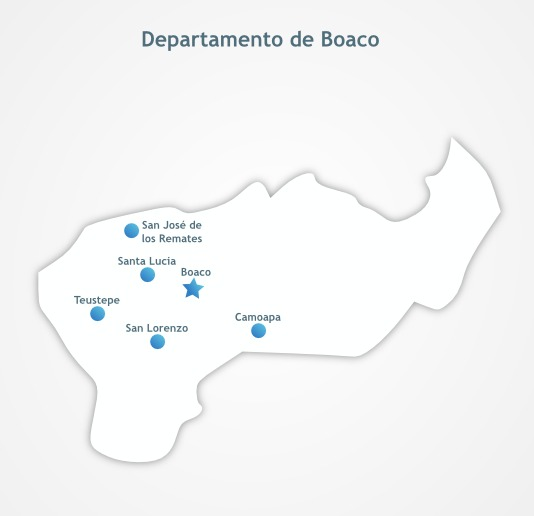
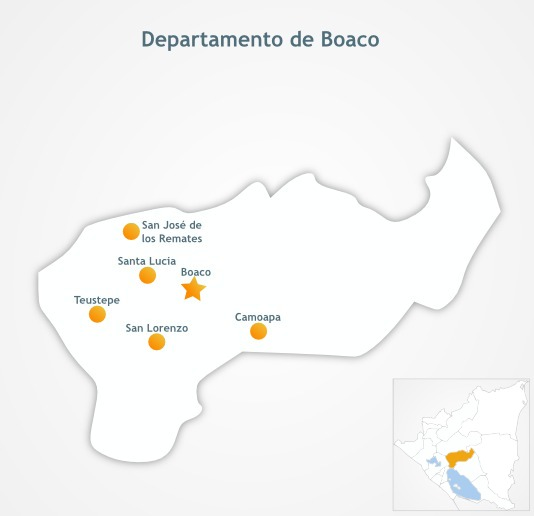
Al fin termine los mapas magicos n_n

diff --git a/aguasan/templates/mapeo/mapa.html b/aguasan/templates/mapeo/mapa.html
@@ -26,10 +26,10 @@
                                                         <area href="/mapeo/mapa/departamento/40" title="Matagalpa" shape="poly" coords="172.87,286.59, 178.05,286.27, 186.59,290.47, 192.51,294.31, 206.30,297.51, 211.10,294.57, 214.42,290.04, 217,287.63, 238.47,282.81, 241.83,283.31, 244.21,283.75, 251,281.74, 252.55,280.53, 263.08,277.23, 264.37,278.57, 266.64,277.15, 271.30,275.18, 276.23,276.50, 281.37,279.44, 286.61,281.59, 290.99,284.98, 287.35,275.85, 284.39,266.71, 283.94,263.39, 288.36,263.39, 293.18,263.48, 300.91,257.34, 324.11,257.63, 338.87,250.25, 344.24,247.98, 345.12,246.13, 345.25,238.47, 342.98,232.94, 340.91,228.26, 343.34,218.76, 342.31,216.89, 333.56,210.45, 326.30,206.19, 323.92,206.01, 315.37,206.33, 304.60,206.74, 300.32,209.72, 295.22,217.96, 294.47,222.16, 291.46,228.38, 288.07,230.02, 282.57,225.92, 276.33,223.72, 272.43,222.84, 254.85,206.71, 250.86,209.78, 248.02,210.99, 243.39,213.16, 242.79,217.83, 232.33,221.71, 230.84,224.11, 229.52,226.43, 222.10,231.64, 215.76,240, 210.02,247.49, 191.15,241.25, 181.83,249.34, 176.99,252.38, 171.19,255.64, 170.58,270.08, 171.22,283.70 "></area>
                                                         <area href="/mapeo/mapa/departamento/25" title="Esteli" shape="poly"coords="166.53,260.44, 167.41,259.02, 171.08,252.84, 175.72,249.43, 183.81,243.36, 187.80,239.32, 184.36,237.17, 174.16,231.04, 170.40,226.50, 172.11,220.70, 167.94,214.78, 165.43,212.01, 168.10,207.88, 170.01,202.62, 171.71,201.67, 176.79,197.97, 162.86,196.87, 146.27,195.60, 141.66,195.10, 134.77,200.63, 133.83,204.18, 131.32,211.98, 128.64,215.92, 124.98,219.57, 118.63,225.67, 116.99,229.35, 117.29,231.54, 120.35,230.41, 123.35,229.42, 126.60,234.22, 129.72,231.76, 132.58,230.15, 139.34,229.89, 147.59,230.48, 150.23,236.49, 157.03,242.42, 153.85,249.86, 154.28,254.25, 155.73,258.51, 158.76,260.04, 163.53,260.58"></area>
                                                         <area href="/mapeo/mapa/departamento/20" title="Madriz" shape="poly" coords="122.63,217.85, 125.14,217.11, 128.09,213.29, 130.75,208.11, 132.26,199.85, 137.20,195.17, 141.68,192.40, 159,195.18, 167.37,193.43, 173.90,194.71, 179.43,195.31, 181,193.64, 186.14,192.52, 189.25,189.20, 190.55,185.05, 180.08,177.68, 175.14,184.11, 169.41,180.54, 162.93,178.43, 153.28,176.56, 145.11,175.70, 142.46,176.55, 139.41,178.39, 135.20,181.25, 134.60,177.34, 129.53,175.71, 128.47,171.96, 121.85,169.60, 119.57,170.13, 119.21,171.25, 117.65,172.97, 115.37,174.89, 118.27,178.75, 118.17,181.62, 118.14,184.89, 119.24,187.73, 119.89,190.12, 119.57,193.56, 118.87,198.82, 121.42,203.65, 124.27,207.05, 122.41,209.72, 120.63,213.36, 121.30,215.58"></area>
-                                                        <area href="#" title="Nueva Segovia" shape="poly" coords="211.34,188.39, 212.58,186.60, 212.92,185.11, 207.17,180.23, 207.74,176.32, 208.04,172.05, 206.06,167.03, 207.94,164.70, 210.17,163.01, 212,158.31, 216.96,152.79, 225.61,146.88, 217.78,137.85, 211.79,140.49, 203.99,132.05, 199.26,129.23, 200.56,119.54, 192.94,120.49, 189.19,123.46, 188.71,127.79, 189.15,130.54, 182.45,130.96, 179.95,134.11, 178.41,136.28, 174.37,141.20, 170.16,147.13, 166.30,153.01, 163.18,155.36, 159.65,155.64, 152.99,154.57, 150.34,153.98, 147.71,154.63, 143.49,153.07, 138.08,151.94, 131.34,152.81, 123.77,152.12, 119.70,152.28, 117.82,154.46, 116.50,160.17, 116.08,164.72, 120.28,165.87, 127.10,167.71, 129.79,169.13, 131.18,170.90, 132.87,172.90, 134.08,173.39, 136.42,174.39, 138.26,176.25, 141.76,174.03, 148.93,173.23, 156.31,174.84, 171.87,178.25, 174.43,179.98, 177.70,175.36, 179.78,174.98, 191.82,181.88, 193.61,184.42, 197.10,185.34, 200.32,183.20, 202.95,183.85"></area>
+                                                        <area href="/mapeo/mapa/departamento/5" title="Nueva Segovia" shape="poly" coords="211.34,188.39, 212.58,186.60, 212.92,185.11, 207.17,180.23, 207.74,176.32, 208.04,172.05, 206.06,167.03, 207.94,164.70, 210.17,163.01, 212,158.31, 216.96,152.79, 225.61,146.88, 217.78,137.85, 211.79,140.49, 203.99,132.05, 199.26,129.23, 200.56,119.54, 192.94,120.49, 189.19,123.46, 188.71,127.79, 189.15,130.54, 182.45,130.96, 179.95,134.11, 178.41,136.28, 174.37,141.20, 170.16,147.13, 166.30,153.01, 163.18,155.36, 159.65,155.64, 152.99,154.57, 150.34,153.98, 147.71,154.63, 143.49,153.07, 138.08,151.94, 131.34,152.81, 123.77,152.12, 119.70,152.28, 117.82,154.46, 116.50,160.17, 116.08,164.72, 120.28,165.87, 127.10,167.71, 129.79,169.13, 131.18,170.90, 132.87,172.90, 134.08,173.39, 136.42,174.39, 138.26,176.25, 141.76,174.03, 148.93,173.23, 156.31,174.84, 171.87,178.25, 174.43,179.98, 177.70,175.36, 179.78,174.98, 191.82,181.88, 193.61,184.42, 197.10,185.34, 200.32,183.20, 202.95,183.85"></area>
                                                         <area href="/mapeo/mapa/departamento/10" title="Jinotega" shape="poly" coords="208.42,244.75, 214.15,236.77, 219.93,229.12, 225.47,226.62, 227.98,222.03, 230.51,219.02, 236.13,217.26, 239.86,214.61, 240.13,210.77, 247.51,208.37, 252.40,204.87, 254.43,200.48, 257.84,195.44, 262.75,191.63, 267.70,188.42, 267.70,171.05, 274.24,163.39, 284.34,164.58, 289.33,156.76, 297.25,152.74, 305.33,156.45, 308.32,159.20, 317.70,143.75, 329.40,125.88, 328.43,116.88, 330.44,100.48, 333.85,85.12, 330.83,82.83, 325.52,86.55, 319.92,80.78, 320.41,76.53, 316.12,75.53, 318.42,68.69, 312.70,66.25, 314.89,57.97, 313.30,54.39, 308.39,64.98, 305.21,62.04, 299.41,59.25, 299.82,63.70, 300.65,67.47, 297.27,71, 295.16,75.79, 295.24,77.92, 293.79,80.52, 291.96,82.43, 296.86,88.39, 299.48,92.69, 291.78,95.79, 276.36,98.88, 271.78,111.02, 258.33,121.75, 245.32,125.82, 229.87,131.45, 230.11,136.60, 231.13,141.17, 234.84,144.76, 232.02,146.16, 222.83,151.29, 216.25,156.43, 212.72,161.90, 210.32,165.91, 209.83,170.14, 210.33,175.95, 211.06,179.08, 216.99,183.12, 213.42,192.20, 199.65,186.87, 195.95,187.68, 192.87,188.43, 189.56,192.93, 184.17,194.98, 180.07,199.23, 177.74,202.47, 174.45,204.29, 170.52,212.65, 175.57,218.91, 174.05,226.41, 176.39,228.83"></area>
-                                                        <area href="#" title="Región Atlántico Norte" shape="poly" coords="256.64,203.39,274.19,220.07,288.27,226.85,291.56,223.46,292.03,219.20,293.20,214.89,295.95,211.24,299.07,206.96,304.74,204.25,310.25,203.17,316.06,204.25,322.49,204.45,326.91,202.72,347.44,217.7,381.83,214.24,403.40,211.93,414.92,209.86,419.48,219.10,442.45,213.91,450.22,214.49,455.13,215.87,458.42,215.50,458.74,218.64,459.41,221.30,459.67,225.72,459.64,228.48,483.98,240.58,476.26,215.20,478.38,204.48,484.25,179.94,486.60,161.56,487.63,147.94,492.74,137.49,495.97,126.14,506.60,114.39,514.13,103.32,505.37,94.62,504.84,84.11,512.94,85.26,514.31,89.22,516,94.31,518.44,96.60,522.27,86.25,516.73,69.29,511.84,53.10,511.06,44.11,509.82,31.93,508.79,33.11,508.06,36.07,506.63,45.57,494.96,33.55,498.28,26.94,503.81,18.90,508.19,18.18,509.14,20.86,509.80,24.05,510.89,26.13,512.27,22.44,515.39,18.11,519.47,14.83,523.11,10.92,521.10,9.84,516.23,12.44,513.33,15.07,510.17,11.41,506.40,8.53,499.40,7.44,496.46,7.13,492.38,15.65,488.30,10.56,476.43,24.60,473.63,25.26,470.90,25.74,468.70,27.64,466.70,29.45,464.55,29.62,462.67,29.71,457.64,32.43,451.03,36.02,444.76,36.97,440.69,37.62,435.23,39.47,428.18,41.49,420.71,36.40,419.59,38.40,418.36,40.97,416.47,43.40,413.77,46.24,408.87,43.75,402.25,41.26,401.27,41.88,403.36,48.42,396.67,52.59,390.06,45.22,376.56,56.97,370.20,54.18,355.70,46.82,352.32,48.33,350.13,47.34,346.75,44.11,343.22,39.59,341.23,35.58,340.40,31.39,330.18,31.06,327.44,38.16,322.39,41.39,316.34,44.90,313.42,47.92,315.96,52.70,318.06,56.91,317.27,62.86,317.34,65.05,321.80,67.63,320.89,71.70,321.41,73.39,324.26,75.47,324.74,76.45,323.97,77.53,323.32,80.06,324.49,81.97,326.13,82.71,330.08,80.42,337.88,83.53,335.70,91.69,333.48,100.78,331.91,109.23,331.49,118.09,332.32,122.89,334.25,125.27,329.69,131.32,321.22,143.73,313.26,157.56,309.37,164.76,304.40,159.59,297.61,155.54,292.45,157.35,288.54,161.64,286.27,165.66,276.96,166.92,272.41,170.44,271.07,173.67,270.56,190.23,260.61,197.15,258.32,200.21 "></area>
-                                                        <area href="#" title="Región Atlántico Sur" shape="poly" coords="452.80,471.15,451.28,465.41,448.25,455.27,446.99,441.28,448.01,433.01,452.84,428.36,458.76,422.10,459.67,417.43,461.18,412.82,465.65,409.61,470.51,407.25,473.45,406.97,471.53,396.61,469.18,389.05,466.25,378.80,462.46,377.68,461.99,386.22,456.75,384.97,452.49,382.50,449.15,378.86,448.63,375.50,454.16,370.86,458.02,368.35,457.61,362.96,459.81,352.94,461.56,349.82,465.16,353.59,468.75,357.62,469.98,356.79,469.70,354.63,468.06,351.97,467.55,345.37,469.75,332.35,473.61,322.11,476.69,318.39,481.95,316.11,487.35,315.24,490.12,311.27,491.99,307.58,484.15,300.26,485.22,245.22,470.02,237.50,456.27,230.42,455.84,219.39,453.03,218.39,450.50,217.25,448.03,216.35,442.37,216.43,434.59,217.31,418.07,221.51,416.29,220.63,415.40,217.30,414.07,213.02,408.01,213,392.93,215.23,375.92,217.31,348.78,220.95,346.46,222.36,344.36,226.17,344.15,229.34,347.75,234.59,348.78,236.84,348.86,238.73,348.35,243.16,346.71,250.24,338.43,253.66,332.51,256.05,328.74,258.42,326.54,260.55,301.63,259.30,297.51,263.19,293.09,266.66,290.55,266.61,288.18,266.44,287.70,267.64,289.43,273.27,293.05,281.47,294.92,287.41,298.32,284.03,296.74,281.67,297.42,278.37,299.90,276.72,301.42,276.17,302.83,274.73,302.92,270.36,303.02,267.37,305.86,267.42,312.28,271.11,317.83,276.53,318.33,279.29,319.73,283.32,325.62,290.73,331.74,299.36,333.27,303.31,335.61,305,338.32,306.09,337.04,308.30,335.70,312.45,335.63,315.76,338.93,321.02,341.94,325.27,341.21,328.36,340.69,332.07,341.19,336.48,342.86,341.97,345.33,346.34,349.13,353.75,353.68,362.61,361.06,366.92,371.27,369.09,362.72,376.83,370.88,389.16,371.74,391.56,371.98,393.55,372.25,398.06,373.42,400.54,374.84,406.27,374.51,407.97,373.42,409.27,372.29,411.07,372.77,419.40,373.89,423.27,380.08,429.80,386.16,434.63,392.15,438.53,393.31,439.82,395.77,444.73,399.06,447.42,405.28,447.65,408.22,449.29,410.64,453.02,411.24,454.63,411.32,456.52,412.27,458.89,416.27,462.33,422.66,463.34,428.96,465.30,435.37,467.96,440.45,466.19,442.87,465.80,444.84,466.77,446.17,468.86,448.02,472.52,450.42,472.27 "></area>
+                                                        <area href="/mapeo/mapa/departamento/91" title="Región Atlántico Norte" shape="poly" coords="256.64,203.39,274.19,220.07,288.27,226.85,291.56,223.46,292.03,219.20,293.20,214.89,295.95,211.24,299.07,206.96,304.74,204.25,310.25,203.17,316.06,204.25,322.49,204.45,326.91,202.72,347.44,217.7,381.83,214.24,403.40,211.93,414.92,209.86,419.48,219.10,442.45,213.91,450.22,214.49,455.13,215.87,458.42,215.50,458.74,218.64,459.41,221.30,459.67,225.72,459.64,228.48,483.98,240.58,476.26,215.20,478.38,204.48,484.25,179.94,486.60,161.56,487.63,147.94,492.74,137.49,495.97,126.14,506.60,114.39,514.13,103.32,505.37,94.62,504.84,84.11,512.94,85.26,514.31,89.22,516,94.31,518.44,96.60,522.27,86.25,516.73,69.29,511.84,53.10,511.06,44.11,509.82,31.93,508.79,33.11,508.06,36.07,506.63,45.57,494.96,33.55,498.28,26.94,503.81,18.90,508.19,18.18,509.14,20.86,509.80,24.05,510.89,26.13,512.27,22.44,515.39,18.11,519.47,14.83,523.11,10.92,521.10,9.84,516.23,12.44,513.33,15.07,510.17,11.41,506.40,8.53,499.40,7.44,496.46,7.13,492.38,15.65,488.30,10.56,476.43,24.60,473.63,25.26,470.90,25.74,468.70,27.64,466.70,29.45,464.55,29.62,462.67,29.71,457.64,32.43,451.03,36.02,444.76,36.97,440.69,37.62,435.23,39.47,428.18,41.49,420.71,36.40,419.59,38.40,418.36,40.97,416.47,43.40,413.77,46.24,408.87,43.75,402.25,41.26,401.27,41.88,403.36,48.42,396.67,52.59,390.06,45.22,376.56,56.97,370.20,54.18,355.70,46.82,352.32,48.33,350.13,47.34,346.75,44.11,343.22,39.59,341.23,35.58,340.40,31.39,330.18,31.06,327.44,38.16,322.39,41.39,316.34,44.90,313.42,47.92,315.96,52.70,318.06,56.91,317.27,62.86,317.34,65.05,321.80,67.63,320.89,71.70,321.41,73.39,324.26,75.47,324.74,76.45,323.97,77.53,323.32,80.06,324.49,81.97,326.13,82.71,330.08,80.42,337.88,83.53,335.70,91.69,333.48,100.78,331.91,109.23,331.49,118.09,332.32,122.89,334.25,125.27,329.69,131.32,321.22,143.73,313.26,157.56,309.37,164.76,304.40,159.59,297.61,155.54,292.45,157.35,288.54,161.64,286.27,165.66,276.96,166.92,272.41,170.44,271.07,173.67,270.56,190.23,260.61,197.15,258.32,200.21 "></area>
+                                                        <area href="/mapeo/mapa/departamento/93" title="Región Atlántico Sur" shape="poly" coords="452.80,471.15,451.28,465.41,448.25,455.27,446.99,441.28,448.01,433.01,452.84,428.36,458.76,422.10,459.67,417.43,461.18,412.82,465.65,409.61,470.51,407.25,473.45,406.97,471.53,396.61,469.18,389.05,466.25,378.80,462.46,377.68,461.99,386.22,456.75,384.97,452.49,382.50,449.15,378.86,448.63,375.50,454.16,370.86,458.02,368.35,457.61,362.96,459.81,352.94,461.56,349.82,465.16,353.59,468.75,357.62,469.98,356.79,469.70,354.63,468.06,351.97,467.55,345.37,469.75,332.35,473.61,322.11,476.69,318.39,481.95,316.11,487.35,315.24,490.12,311.27,491.99,307.58,484.15,300.26,485.22,245.22,470.02,237.50,456.27,230.42,455.84,219.39,453.03,218.39,450.50,217.25,448.03,216.35,442.37,216.43,434.59,217.31,418.07,221.51,416.29,220.63,415.40,217.30,414.07,213.02,408.01,213,392.93,215.23,375.92,217.31,348.78,220.95,346.46,222.36,344.36,226.17,344.15,229.34,347.75,234.59,348.78,236.84,348.86,238.73,348.35,243.16,346.71,250.24,338.43,253.66,332.51,256.05,328.74,258.42,326.54,260.55,301.63,259.30,297.51,263.19,293.09,266.66,290.55,266.61,288.18,266.44,287.70,267.64,289.43,273.27,293.05,281.47,294.92,287.41,298.32,284.03,296.74,281.67,297.42,278.37,299.90,276.72,301.42,276.17,302.83,274.73,302.92,270.36,303.02,267.37,305.86,267.42,312.28,271.11,317.83,276.53,318.33,279.29,319.73,283.32,325.62,290.73,331.74,299.36,333.27,303.31,335.61,305,338.32,306.09,337.04,308.30,335.70,312.45,335.63,315.76,338.93,321.02,341.94,325.27,341.21,328.36,340.69,332.07,341.19,336.48,342.86,341.97,345.33,346.34,349.13,353.75,353.68,362.61,361.06,366.92,371.27,369.09,362.72,376.83,370.88,389.16,371.74,391.56,371.98,393.55,372.25,398.06,373.42,400.54,374.84,406.27,374.51,407.97,373.42,409.27,372.29,411.07,372.77,419.40,373.89,423.27,380.08,429.80,386.16,434.63,392.15,438.53,393.31,439.82,395.77,444.73,399.06,447.42,405.28,447.65,408.22,449.29,410.64,453.02,411.24,454.63,411.32,456.52,412.27,458.89,416.27,462.33,422.66,463.34,428.96,465.30,435.37,467.96,440.45,466.19,442.87,465.80,444.84,466.77,446.17,468.86,448.02,472.52,450.42,472.27 "></area>
 
                             </map>
                    </div>

diff --git a/aguasan/templates/mapeo/mapa_departamento.html b/aguasan/templates/mapeo/mapa_departamento.html
@@ -189,5 +189,66 @@
                                                      
                             </map>
                             {%endifequal%}
+                            {%ifequal departamento.id 20%}
+                            <img src="{{MEDIA_URL}}imagen/madriz.jpg" class="mapa" usemap="#madriz" width="534" height="516" border="0">
+                            <map name="madriz">
+                                                        <area href="/proyectos/municipio/2005" title="Somoto" shape="poly" coords="210.47,240.67, 216.98,244.86, 216.35,237.14, 222.35,232.24, 214.81,230.46, 212.01,223.24, 207.98,229.86, 200.25,230.30, 205.30,236.17, 203.33,243.66, 210.47,240.67"></area>
+                                                        <area href="/proyectos/municipio/2030" title="Yalaguina" shape="circle" coords="275.97,221.69,7.25"></area>
+                                                        <area href="/proyectos/municipio/2010" title="Totogalpa" shape="circle" coords="306.55,191.46,7.25"></area>
+                                                        <area href="/proyectos/municipio/2015" title="Telpaneca" shape="circle" coords="348.98,220.45,7.25"></area>
+                                                        <area href="/proyectos/municipio/2025" title="Palacaguina" shape="circle" coords="321.40,260.93,7.25"></area>
+                                                        <area href="/proyectos/municipio/2020" title="San Juan del Rio Coco" shape="circle" coords="451.52,209.68,7.25"></area>
+                                                        <area href="/proyectos/municipio/2035" title="San Lucas" shape="circle" coords="159.52,290.18,7.25"></area>
+                                                        <area href="/proyectos/municipio/2040" title="Las Sabanas" shape="circle" coords="143.02,340.43,7.25"></area>
+                                                        <area href="/proyectos/municipio/2045" title="Cusmapa" shape="circle" coords="122.77,381.93,7.25"></area>
+                            </map>
+                            {%endifequal%}
+                            {%ifequal departamento.id 5%}
+                            <img src="{{MEDIA_URL}}imagen/nuevasegovia.jpg" class="mapa" usemap="#nuevasegovia" width="534" height="516" border="0">
+                            <map name="nuevasegovia">
+                                                        <area href="/proyectos/municipio/545" title="Ocotal" shape="poly" coords="193.50,287.68, 200.01,291.87, 199.38,284.15, 205.38,279.25, 197.84,277.47, 195.04,270.25, 191.01,276.87, 183.28,277.31, 188.33,283.18, 186.36,290.67"></area>
+                                                        <area href="/proyectos/municipio/540" title="Santa Maria" shape="circle" coords="67.55,228.91,7.25"></area>
+                                                        <area href="/proyectos/municipio/535" title="Macuelizo" shape="circle" coords="128.54,272.04,7.25"></area>
+                                                        <area href="/proyectos/municipio/530" title="Dipilto" shape="circle" coords="186.42,236.00,7.25"></area>
+                                                        <area href="/proyectos/municipio/525" title="Mozonte" shape="circle" coords="217.38,253.88,7.25"></area>
+                                                        <area href="/proyectos/municipio/520" title="San Fernando" shape="circle" coords="276.63,246.51,7.25"></area>
+                                                        <area href="/proyectos/municipio/550" title="Ciudad Antigua" shape="circle" coords="262.75,283.01,7.25"></area>
+                                                        <area href="/proyectos/municipio/555" title="Quilalí" shape="circle" coords="373.95,309.52,7.25"></area>
+                                                        <area href="/proyectos/municipio/515" title="El Jícaro" shape="circle" coords="333.20,242.52,7.25"></area>
+                                                        <area href="/proyectos/municipio/510" title="Murra" shape="circle" coords="389.20,229.65,7.25"></area>
+                                                        <area href="/proyectos/municipio/505" title="Jalapa" shape="circle" coords="364.20,145.65,7.25"></area>
+                                                        <area href="/proyectos/municipio/560" title="Wiwilí" shape="circle" coords="415.99,277.73,7.25"></area>
+                            </map>
+                            {%endifequal%}
+                            {%ifequal departamento.id 91%}
+                            <img src="{{MEDIA_URL}}imagen/raan.jpg" class="mapa" usemap="#raan" width="534" height="516" border="0">
+                            <map name="raan">
+                                                        <area href="/proyectos/municipio/9110" title="Puerto Cabezas" shape="poly" coords="399.98,276.37, 406.49,280.56, 405.85,272.84, 411.85,267.94, 404.32,266.16, 401.51,258.94, 397.49,265.56, 389.76,265.99, 394.81,271.87, 392.83,279.35"></area>
+                                                        <area href="/proyectos/municipio/9135" title="Prinzapolka" shape="circle" coords="373.02,364.17,7.25"></area>
+                                                        <area href="/proyectos/municipio/9105" title="Waspán" shape="circle" coords="283.27,161.92,7.25"></area>
+                                                        <area href="/proyectos/municipio/9120" title="Bonanza" shape="circle" coords="188.17,259.50,7.25"></area>
+                                                        <area href="/proyectos/municipio/9115" title="Rosita" shape="circle" coords="227.41,279.30,7.25"></area>
+                                                        <area href="/proyectos/municipio/9130" title="Siuna" shape="circle" coords="153.87,313.95,7.25"></area>
+                                                        <area href="/proyectos/municipio/9127" title="Mulukuku" shape="circle" coords="152.10,369.10,7.25"></area>
+                                                        <area href="/proyectos/municipio/9125" title="Waslala" shape="circle" coords="87.76,366.63,7.25"></area>
+                            </map>
+                            {%endifequal%}
+                            {%ifequal departamento.id 93%}
+                            <img src="{{MEDIA_URL}}imagen/raas.jpg" class="mapa" usemap="#raan" width="534" height="516" border="0">
+                            <map name="raan">
+                                                        <area href="/proyectos/municipio/9340" title="Bluefields" shape="poly" coords="323.71,311.71, 330.22,315.91, 329.58,308.19, 335.58,303.29, 328.05,301.51, 325.24,294.29, 321.22,300.91, 313.49,301.34, 318.54,307.21, 316.56,314.70"></area>
+                                                        <area href="/proyectos/municipio/9335" title="Corn Island" shape="circle" coords="396.51,305.38,7.25"></area>
+                                                        <area href="/proyectos/municipio/9330" title="Kukra Hill" shape="circle" coords="337.26,271.13,7.25"></area>
+                                                        <area href="/proyectos/municipio/9315" title="Laguna de Perlas" shape="circle" coords="349.51,247.63,7.25"></area>
+                                                        <area href="/proyectos/municipio/9316" title="El Tortuguero" shape="circle" coords="267.01,168.38,7.25"></area>
+                                                        <area href="/proyectos/municipio/9312" title="Desembocadura de Rio Grande" shape="circle" coords="346.26,131.88,7.25"></area>
+                                                        <area href="/proyectos/municipio/9310" title="La Cruz de Rio Grande" shape="circle" coords="273.01,123.13,7.25"></area>
+                                                        <area href="/proyectos/municipio/9305" title="Paiwas" shape="circle" coords="143.63,178.04,7.25"></area>
+                                                        <area href="/proyectos/municipio/9323" title="El Ayote" shape="circle" coords="167.88,222.54,7.25"></area>
+                                                        <area href="/proyectos/municipio/9320" title="Rama" shape="circle" coords="286.47,285.80,7.25"></area>
+                                                        <area href="/proyectos/municipio/9325" title="Muelle de los Bueyes" shape="circle" coords="216.11,299.06,7.25"></area>
+                                                        <area href="/proyectos/municipio/9345" title="Nueva Guinea" shape="circle" coords="223.74,372.45,7.25"></area>
+                            </map>
+                            {%endifequal%}
                    </div>
 {%endblock%}
